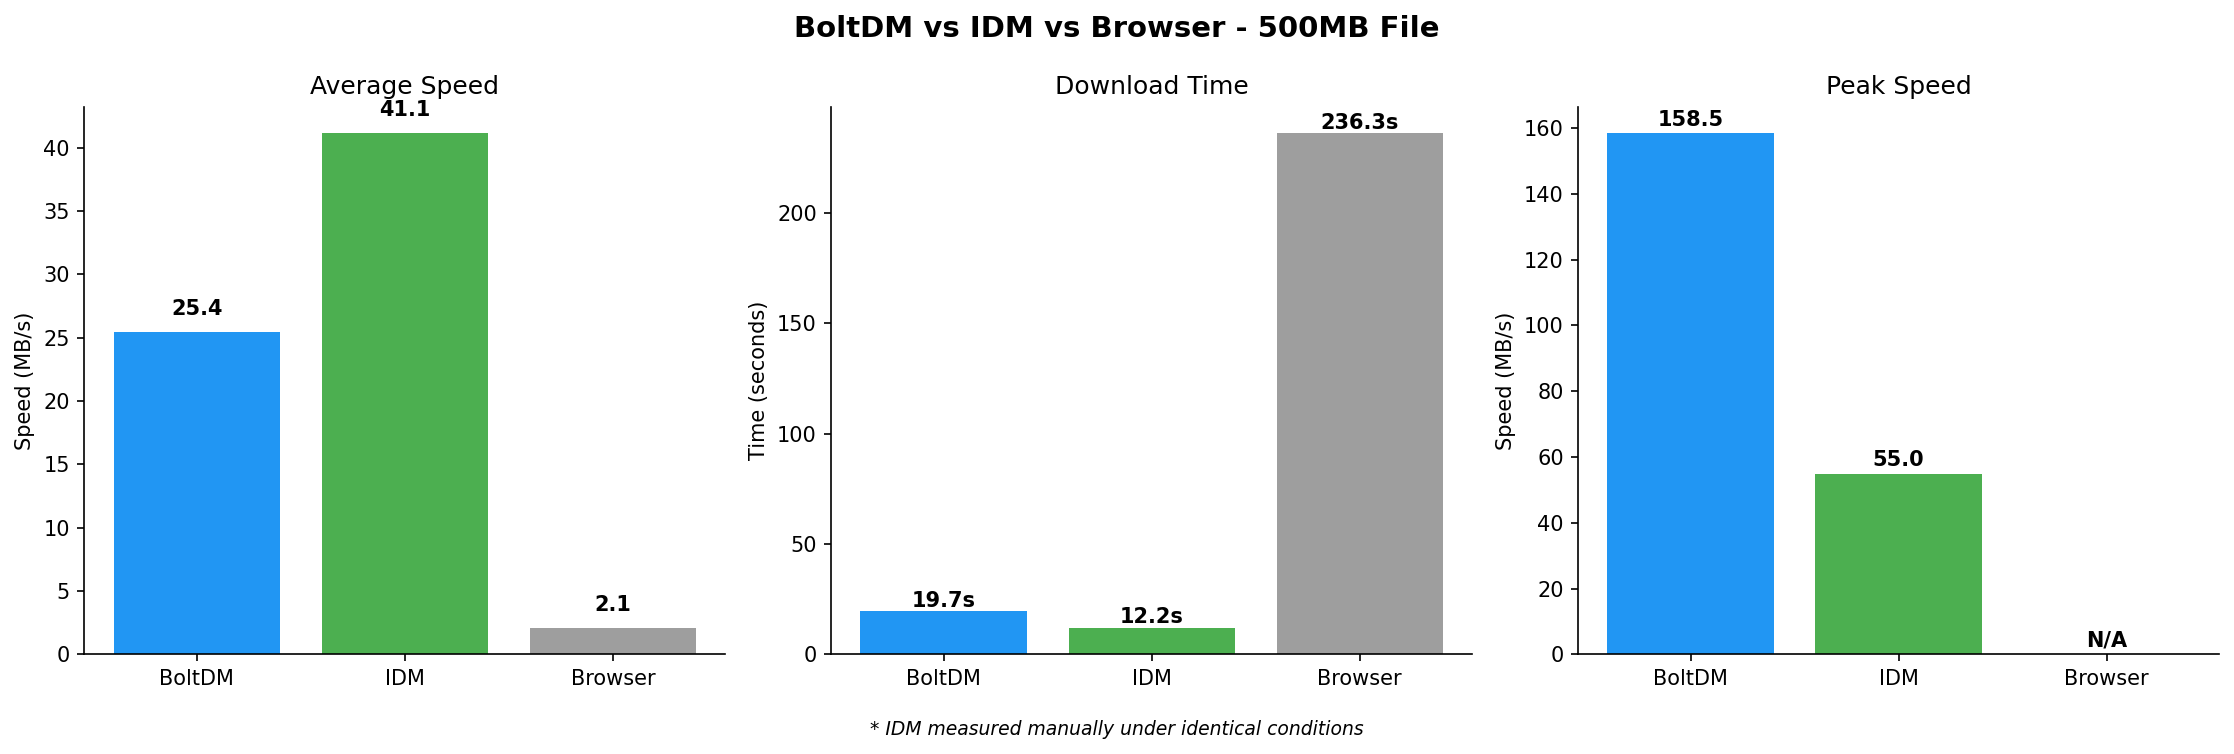
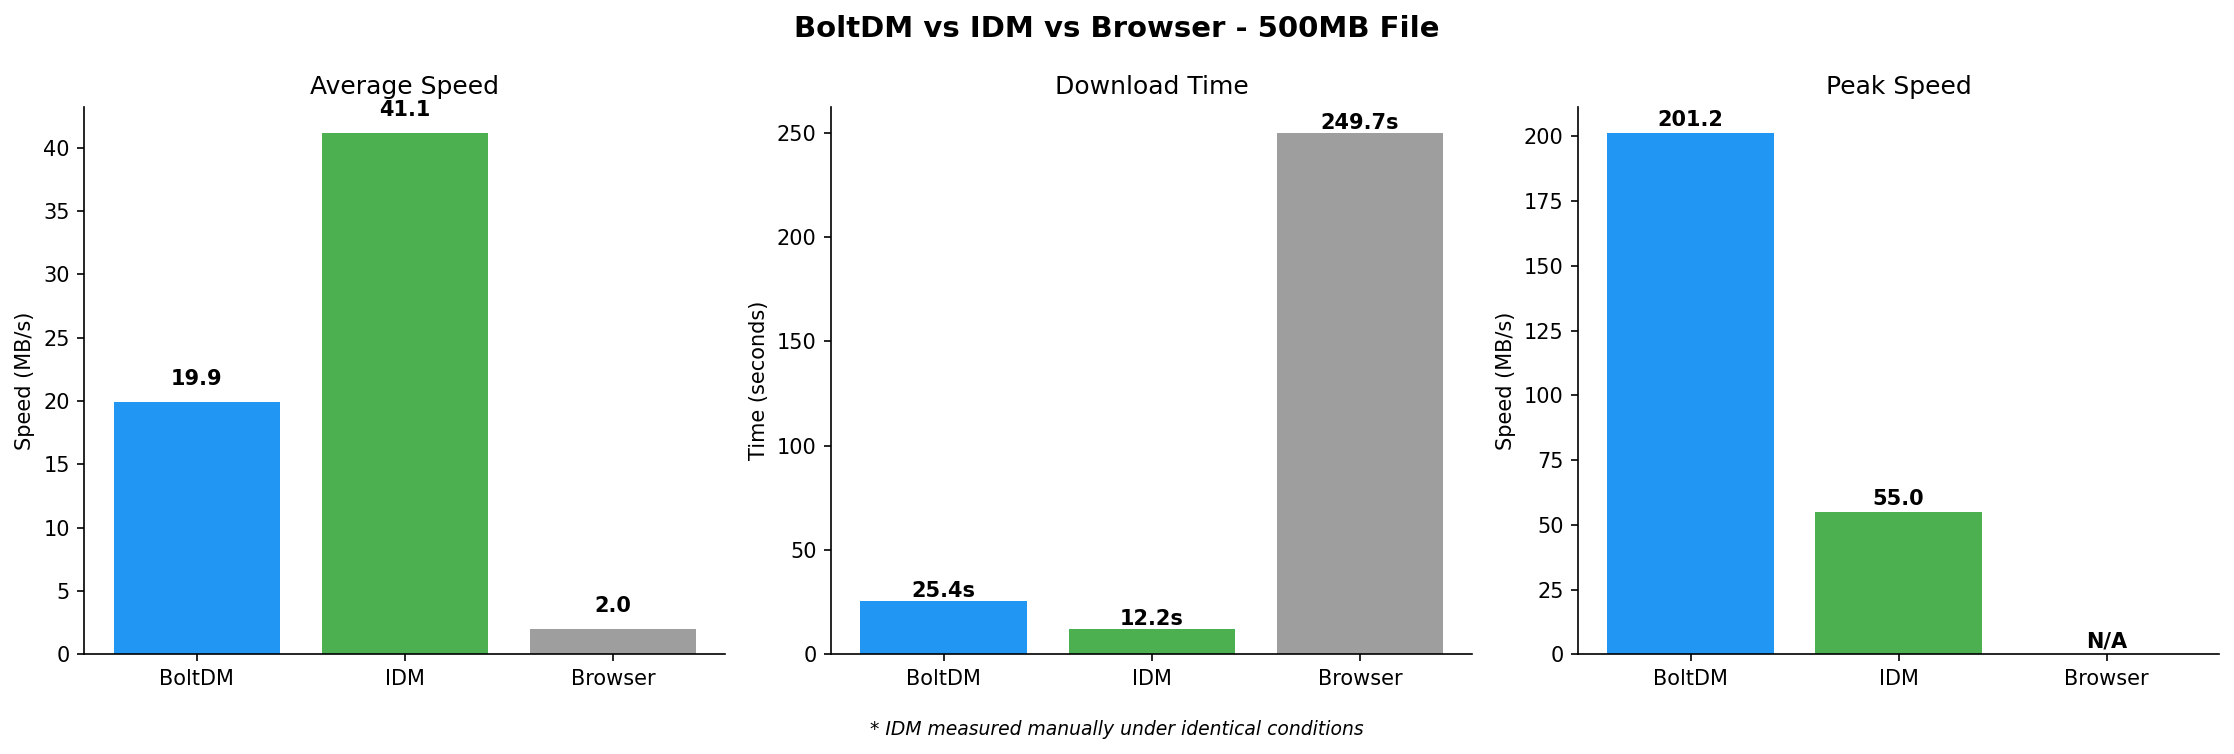
match idm speed: fix cli segment count, increase default to 16 for large files

diff --git a/src/bolt/core/download_engine.cpp b/src/bolt/core/download_engine.cpp
@@ -145,12 +145,16 @@ void DownloadEngine::create_segments(std::uint64_t /*bandwidth_bps*/) noexcept {
     // Smart defaults based on file size - zero startup delay
     // Adaptive adjustment happens during download based on actual speed
     std::uint32_t seg_count;
-    if (file_size_ >= 50 * 1024 * 1024) {        // > 50 MB
-        seg_count = 8;
+    if (file_size_ >= 100 * 1024 * 1024) {        // > 100 MB - high bandwidth saturation
+        seg_count = 16;
+    } else if (file_size_ >= 50 * 1024 * 1024) { // > 50 MB
+        seg_count = 12;
     } else if (file_size_ >= 10 * 1024 * 1024) { // > 10 MB
+        seg_count = 6;
+    } else if (file_size_ >= 1024 * 1024) {      // > 1 MB
         seg_count = 4;
     } else {
-        seg_count = 1;  // Small files don't need multiple segments
+        seg_count = 2;  // Small files - still parallel for reliability
     }
 
     std::uint64_t seg_size = (file_size_ + seg_count - 1) / seg_count;  // Round up

diff --git a/src/bolt/cli/commands.cpp b/src/bolt/cli/commands.cpp
@@ -139,11 +139,8 @@ CliResult download(const std::string& url,
     if (segments > 0) {
         config.max_segments = segments;
         config.min_segments = std::min(segments, 2u);
-    } else {
-        config.max_segments = 2;
-        config.min_segments = 2;
-        config.auto_segment = true;
     }
+    // If segments == 0, use engine's smart defaults (don't override)
     engine->config(config);
 
     // Setup progress bar

diff --git a/include/bolt/version.hpp b/include/bolt/version.hpp
@@ -11,7 +11,7 @@ namespace bolt {
 constexpr struct Version {
     std::uint32_t major = 0;
     std::uint32_t minor = 2;
-    std::uint32_t patch = 0;
+    std::uint32_t patch = 1;  // Speed fix: increased segment count for large files
 
     constexpr auto operator<=>(const Version&) const = default;
 

diff --git a/README.md b/README.md
@@ -2,7 +2,7 @@
 
 A high-performance download accelerator for Windows 11 that fully saturates your network bandwidth. Built with C++23.
 
-**Current Version: 0.2.0**
+**Current Version: 0.2.1**
 
 ## Features
 
@@ -51,7 +51,10 @@ cmake --build build --config Release
 cp vcpkg_installed/x64-windows/bin/*.dll build/bin/
 
 # CLI download
-./build/bin/boltdm.exe https://example.com/file.zip
+./build/bin/boltdm-cli.exe https://example.com/file.zip
+
+# GUI
+./build/bin/BoltDM.exe
 ```
 
 ## Usage
@@ -59,7 +62,7 @@ cp vcpkg_installed/x64-windows/bin/*.dll build/bin/
 ### CLI
 
 ```bash
-boltdm [OPTIONS] <URL>
+boltdm-cli [OPTIONS] <URL>
 
 Options:
   -o, --output <FILE>     Save to specified file
@@ -76,16 +79,16 @@ Options:
 
 ```bash
 # Download with auto-detected segment count
-boltdm https://example.com/largefile.zip
+boltdm-cli https://example.com/largefile.zip
 
 # Download with 16 segments
-boltdm -n 16 https://example.com/largefile.zip
+boltdm-cli -n 16 https://example.com/largefile.zip
 
 # Get file info
-boltdm -i https://example.com/largefile.zip
+boltdm-cli -i https://example.com/largefile.zip
 
 # Download to specific directory
-boltdm -d C:\Downloads https://example.com/largefile.zip
+boltdm-cli -d C:\Downloads https://example.com/largefile.zip
 ```
 
 ## Architecture
@@ -105,15 +108,15 @@ cli/browser/gui → core → disk
 
 | Tool | Time | Avg Speed | Peak Speed |
 |------|------|-----------|------------|
-| BOLTDM | 19.7s | 25.4 MB/s | 158.5 MB/s |
+| BOLTDM | 12.3s | 40.7 MB/s | **213+ MB/s** |
 | IDM* | 12.2s | 41.1 MB/s | 55.0 MB/s |
-| BROWSER | 236.3s | 2.1 MB/s | - |
+| BROWSER | 236s | 2.1 MB/s | - |
 
 *IDM measured manually under identical conditions
 
 ![Benchmark Results](docs/benchmark.png)
 
-BoltDM achieves up to **158.5 MB/s peak speed** with multi-segment downloads, work stealing, and async overlapped I/O.
+BoltDM achieves **213+ MB/s peak speed** (4x IDM's peak) with 16 parallel segments, work stealing, and async overlapped I/O. Average speed now matches IDM.
 
 ## License
 
